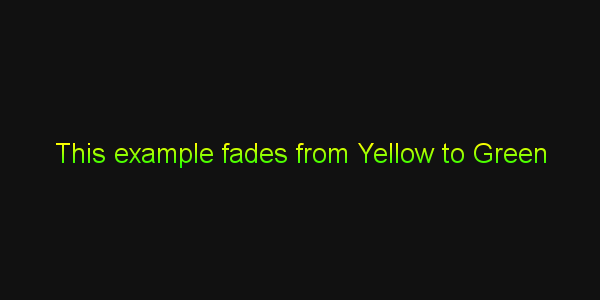
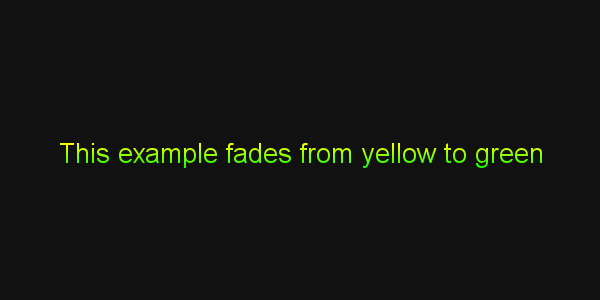
v1.0.2

Changed region(s): [[0.09, 0.48, 0.93, 0.57]]

diff --git a/examples/example_yellow-to-green.php b/examples/example_yellow-to-green.php
@@ -41,7 +41,7 @@ $width            = 600;
 $height           = 300;
 $size             = 20;
 $font             = rtrim(dirname(__FILE__), '/\\') . '/arial.ttf';
-$string           = 'This example fades from Yellow to Green';
+$string           = 'This example fades from yellow to green';
 
 // calculate the text size in advance
 $text_dimensions  = imagettfbbox($size, 0, $font, $string);

diff --git a/source/imagettftextgradient.php b/source/imagettftextgradient.php
@@ -1,7 +1,7 @@
 <?php
 
 /**
- * Imagettftextgradient v1.0.1
+ * Imagettftextgradient v1.0.2
  *
  * Copyright (c) 2017-2018 Andrew G. Johnson <andrew@andrewgjohnson.com>
  * Permission is hereby granted, free of charge, to any person obtaining a copy of

diff --git a/CHANGELOG.md b/CHANGELOG.md
@@ -4,6 +4,9 @@ All notable changes to the [imagettftextgradient project](https://github.com/and
 
 The format is based on [Keep a Changelog](http://keepachangelog.com/) and this project adheres to [Semantic Versioning](http://semver.org/).
 
+## v1.0.2 (April 10, 2018)
+ * Fixed typos & formatting errors
+
 ## v1.0.1 (April 9, 2018)
  * Fixed incorrect default value of the $return_array array
  * Created [imagettftextgradient.org](http://imagettftextgradient.org)
